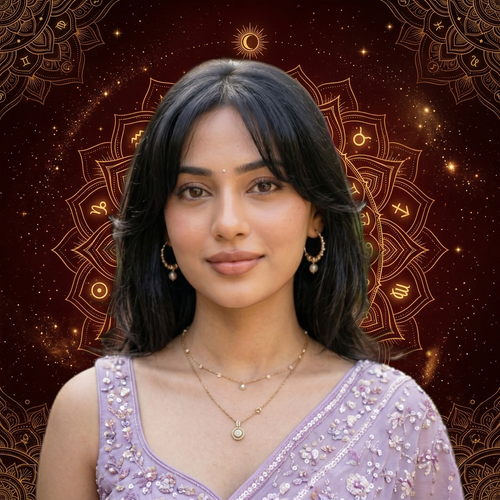
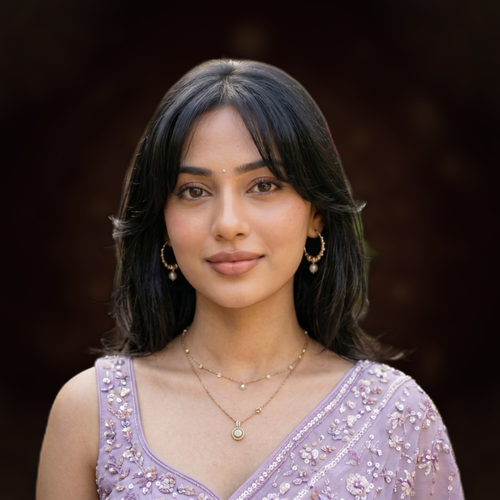
Update Emerald Green and Saffron Gold backgrounds and portraits to use subtle versions

Changed region(s): [[0.0, 0.0, 1.0, 1.0], [0.0, 0.78, 0.12, 1.0]]

diff --git a/index.html b/index.html
@@ -392,7 +392,7 @@
                 <!-- Banner 4. Emerald Cosmic Theme -->
                 <div style="margin-bottom:16px">
                     <div style="font-size:8px;color:#9CA3AF;font-weight:700;margin-bottom:4px">4. RIGHT FOCUS · EMERALD GREEN</div>
-                    <div class="bvl-right-focus" style="background: linear-gradient(90deg, rgba(4,25,15,0.85) 0%, rgba(4,25,15,0.5) 45%, rgba(4,25,15,0) 80%), url('assets/bg_emerald.png') center/cover; border:1px solid rgba(52,211,153,.4); box-shadow:0 6px 20px rgba(4,120,87,.3); height: 100px;">
+                    <div class="bvl-right-focus" style="background: linear-gradient(90deg, rgba(4,25,15,0.85) 0%, rgba(4,25,15,0.5) 45%, rgba(4,25,15,0) 80%), url('assets/bg_emerald_subtle.png') center/cover; border:1px solid rgba(52,211,153,.4); box-shadow:0 6px 20px rgba(4,120,87,.3); height: 100px;">
                         <div style="position:relative; z-index:2; max-width:65%;">
                             <div class="bv-t1-main">ज्योतिषी से सवाल पूछें ✨</div>
                             <div class="bv-bump" style="position:relative; margin-top:6px; background:#E53E3E; color:#FFF; font-weight:800; font-size:15px; padding:6px 16px; border-radius:20px; display:inline-flex; align-items:center; gap:8px; box-shadow:0 4px 12px rgba(229,62,62,0.5); border:1px solid #FC8181;">
@@ -410,7 +410,7 @@
                 <!-- Banner 5. Saffron Cosmic Theme -->
                 <div style="margin-bottom:16px">
                     <div style="font-size:8px;color:#9CA3AF;font-weight:700;margin-bottom:4px">5. RIGHT FOCUS · SAFFRON GOLD</div>
-                    <div class="bvl-right-focus" style="background: linear-gradient(90deg, rgba(30,15,0,0.85) 0%, rgba(30,15,0,0.5) 45%, rgba(30,15,0,0) 80%), url('assets/bg_saffron.png') center/cover; border:1px solid rgba(251,191,36,.4); box-shadow:0 6px 20px rgba(217,119,6,.3); height: 100px;">
+                    <div class="bvl-right-focus" style="background: linear-gradient(90deg, rgba(30,15,0,0.85) 0%, rgba(30,15,0,0.5) 45%, rgba(30,15,0,0) 80%), url('assets/bg_saffron_subtle.png') center/cover; border:1px solid rgba(251,191,36,.4); box-shadow:0 6px 20px rgba(217,119,6,.3); height: 100px;">
                         <div style="position:relative; z-index:2; max-width:65%;">
                             <div class="bv-t1-main">ज्योतिषी से सवाल पूछें ✨</div>
                             <div class="bv-bump" style="position:relative; margin-top:6px; background:#E53E3E; color:#FFF; font-weight:800; font-size:15px; padding:6px 16px; border-radius:20px; display:inline-flex; align-items:center; gap:8px; box-shadow:0 4px 12px rgba(229,62,62,0.5); border:1px solid #FC8181;">
